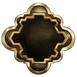
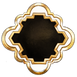
skill names and cleanup

Changed region(s): [[0.026, 0.026, 0.987, 0.987]]

diff --git a/docs/canvas.js b/docs/canvas.js
@@ -1,46 +1,9 @@
-function circle(ctx, x, y, r, lineWidth, color) {
-  ctx.lineWidth = lineWidth;
-  ctx.strokeStyle = color;
-  ctx.arc(x, y, r, 0, 2 * Math.PI);
-  ctx.stroke();
-};
-
-function fill(ctx, color) {
-  ctx.fillStyle = color;
-  ctx.fill();
-};
-
-/*function drawJewelOutline(canvas, x, y, r) {
-  const outlineCtx = canvas.getContext("2d");
-  outlineCtx.beginPath();
-
-  circle(outlineCtx, x, y, r, 7, '#af7d44');
-  circle(outlineCtx, x, y, r, 3, '#f4ebd3');
-  circle(outlineCtx, x, y, r, 1, '#d8b589');
-
-  outlineCtx.closePath();
-
-  const smallConnector = canvas.getContext("2d");
-  smallConnector.beginPath();
-  circle(smallConnector, x, y + r, 12,7, '#af7d44');
-  circle(smallConnector, x, y + r, 12,3, '#f4ebd3');
-  circle(smallConnector, x, y + r, 12, 1, '#d8b589');
-  fill(smallConnector,'black');
-  smallConnector.closePath();
-
-  const connectorLine = canvas.getContext("2d");
-  connectorLine.moveTo(x, y + r + 13);
-  connectorLine.lineTo(x, y + r + 80);
-  connectorLine.lineWidth = 4;
-  connectorLine.stroke();
-  connectorLine.closePath();
-};*/
 
 const TO_RADIANS = Math.PI/180;
 function drawOrbit(canvas, x, y, r) {
   return new Promise(resolve => {
     const ctx = canvas.getContext('2d');
-    const image = new Image(240, 240);
+    const image = new Image();
     image.onload = drawImageActualSize;
     image.src = './assets/orbit.png';
 
@@ -60,9 +23,9 @@ function drawOrbit(canvas, x, y, r) {
 function drawSockets(canvas) {
   return new Promise(resolve => {
     const ctx = canvas.getContext('2d');
-    const image = new Image(240, 240);
+    const image = new Image();
     image.onload = drawImageActualSize;
-    image.src = './assets/socket3.png';
+    image.src = './assets/socket.png';
 
     function drawImageActualSize() {
       ctx.drawImage(this, 180, 115);
@@ -86,9 +49,9 @@ function drawSmallPassive(ctx, thisObj, x, y) {
 function drawSmallPassives(canvas, nbrPassives) {
   return new Promise(resolve => {
     const ctx = canvas.getContext('2d');
-    const image = new Image(240, 240);
+    const image = new Image();
     image.onload = drawImageActualSize;
-    image.src = './assets/small_passive3.png';
+    image.src = './assets/small_passive.png';
 
     function drawImageActualSize() {
       drawSmallPassive(ctx, this, 300, 315);
@@ -118,7 +81,7 @@ function drawSmallPassives(canvas, nbrPassives) {
 function drawConnectorLine(canvas) {
   return new Promise(resolve => {
     const ctx = canvas.getContext('2d');
-    const image = new Image(240, 240);
+    const image = new Image();
     image.onload = drawImageActualSize;
     image.src = './assets/line.png';
     function drawImageActualSize() {
@@ -146,7 +109,7 @@ async function drawJewelOutline(canvas, nbrPassives) {
 
 }
 
-function drawSkill(canvas, x, y, skill, top = true) {
+function drawSkill(canvas, x, y, skill, textPosition) {
   if (!skill) {
     return;
   }
@@ -154,9 +117,9 @@ function drawSkill(canvas, x, y, skill, top = true) {
   return new Promise(resolve => {
     const ctx = canvas.getContext("2d");
     ctx.beginPath();
-    const image = new Image(240, 240);
+    const image = new Image();
     image.onload = drawImageActualSize;
-    image.src = './assets/notable2.png';
+    image.src = './assets/notable.png';
 
     ctx.arc(x + 30, y + 30, 20, 0, 2 * Math.PI);
     ctx.fillStyle = '#150f0a';
@@ -165,30 +128,40 @@ function drawSkill(canvas, x, y, skill, top = true) {
     function drawImageActualSize() {
       ctx.drawImage(this, x, y);
 
-      // draw circle
-      //
-
-
-      /*const fontSize = 20;
+      const fontSize = 20;
       const padding = 20;
       const imageSize = 30;
 
-      ctx.font = `${fontSize}px Noto Sans`;
-      ctx.textBaseline = "middle";
+      const textCtx = canvas.getContext("2d");
+      textCtx.font = `${fontSize}px Noto Sans`;
+      textCtx.textBaseline = "middle";
+      textCtx.fillStyle = '#edc577';
 
-      const textY = top ? y - padding * 1.5 : y + imageSize * 2 + padding * 1.5;
 
-      const width = ctx.measureText(skill.name).width;
-      const bgX = x - (width + padding) / 2 + imageSize;
-      const bgY = textY - (fontSize + padding) / 2;
+      const width = textCtx.measureText(skill.name).width;
+      let textX;
+      let textY;
 
-      ctx.fillStyle = 'black';
-      ctx.fillRect(bgX, bgY, width + padding, fontSize + padding);
-      ctx.stroke();
+      if (!textPosition) {
+        // middle
+        textCtx.textAlign = 'center';
+        textX = x + imageSize;
+        textY = y - padding;
+      } else if (textPosition > 0) {
+        textCtx.textAlign = 'left';
+        // textX = x ;
+        // textY = y + 130;
+        textX = x;
+        textY = y + 100;
+      } else {
+        textCtx.textAlign = 'right';
+        textX = x + imageSize * 2;
+        textY = y + 100;
+        // textX = x - 20;
+        // textY = y + 130;
+      }
 
-      ctx.fillStyle = '#edc577';
-      ctx.textAlign = 'center';
-      ctx.fillText(skill.name, x + imageSize, textY);*/
+      textCtx.fillText(skill.name, textX, textY);
 
       resolve();
     }
@@ -238,7 +211,7 @@ function drawSkillCircle(canvas, x, y, r, skillName, top = true) {
 function drawJewelBackground(canvas) {
   const ctx = canvas.getContext("2d");
   return new Promise(resolve => {
-    const image = new Image(240, 240);
+    const image = new Image();
     image.onload = drawImageActualSize;
     image.src = './assets/jewel_background.png';
     function drawImageActualSize() {
@@ -265,12 +238,9 @@ export async function drawCanvas(skills, nbrPassives) {
   await drawJewelBackground(canvas);
   await drawJewelOutline(canvas, nbrPassives);
 
-  await drawSkill(canvas, 300, 60, skills[1]);
-  await drawSkill(canvas, 410, 250, skills[0]);
-  await drawSkill(canvas, 190, 250, skills[2], false);
-  // drawSkillCircle(canvas, 330, 80, 25, skills[1]);
-  // drawSkillCircle(canvas, 225, 250, 25, skills[0]);
-  // drawSkillCircle(canvas, 440, 250, 25, skills[2], false);
+  await drawSkill(canvas, 300, 60, skills[1], 0);
+  await drawSkill(canvas, 410, 250, skills[0], 1);
+  await drawSkill(canvas, 190, 250, skills[2], -1);
 };
 
 
